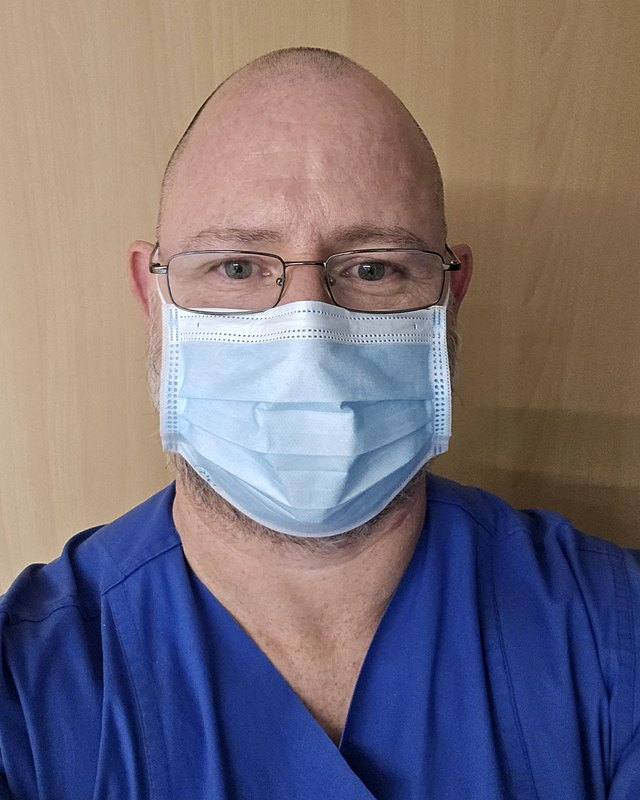
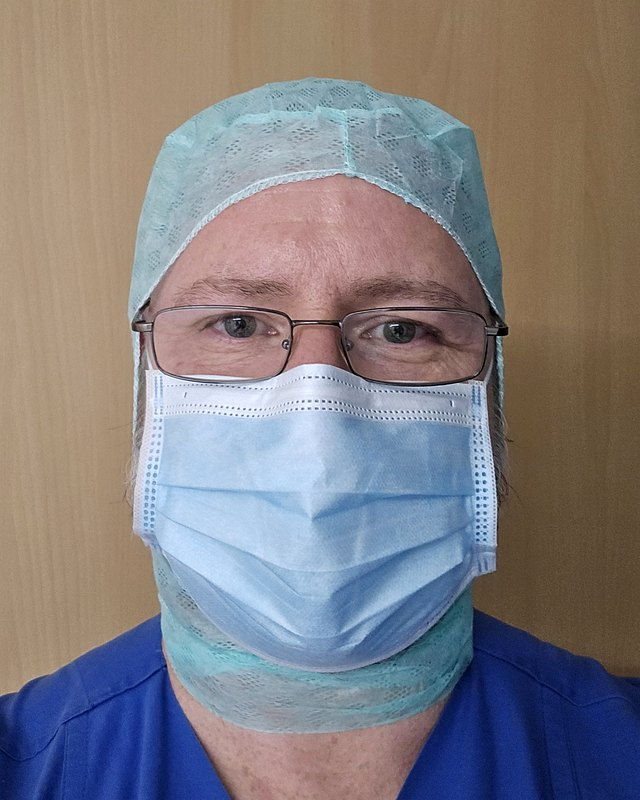
feat(landing): Entwicklerfoto mit OP-Haube und Maske
Claude-Session: https://claude.ai/code/session_016NMCqxfoLv1sY2K1nEWdj3

diff --git a/landingpage.html b/landingpage.html
@@ -695,7 +695,7 @@ footer {
   <div class="section-tag">Der Entwickler</div>
   <div class="section-title">Von der Praxis für die Praxis</div>
   <div class="about-box">
-    <img class="about-photo" src="patrick.jpg?v=2" alt="Patrick Schenkelberger – Fachpfleger &amp; Praxisanleiter" loading="lazy">
+    <img class="about-photo" src="patrick.jpg?v=3" alt="Patrick Schenkelberger – Fachpfleger &amp; Praxisanleiter" loading="lazy">
     <div>
       <div class="about-title">Patrick Schenkelberger</div>
       <div class="about-sub">Fachpfleger Anästhesie & Intensivmedizin · Praxisanleiter NRW</div>
